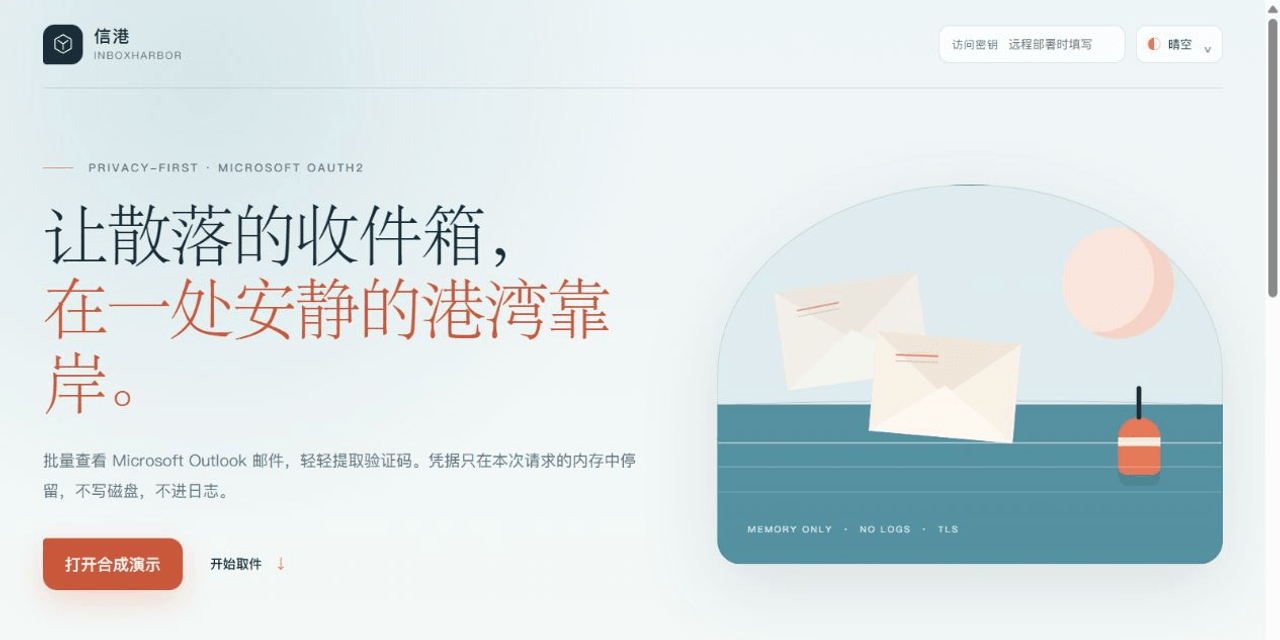
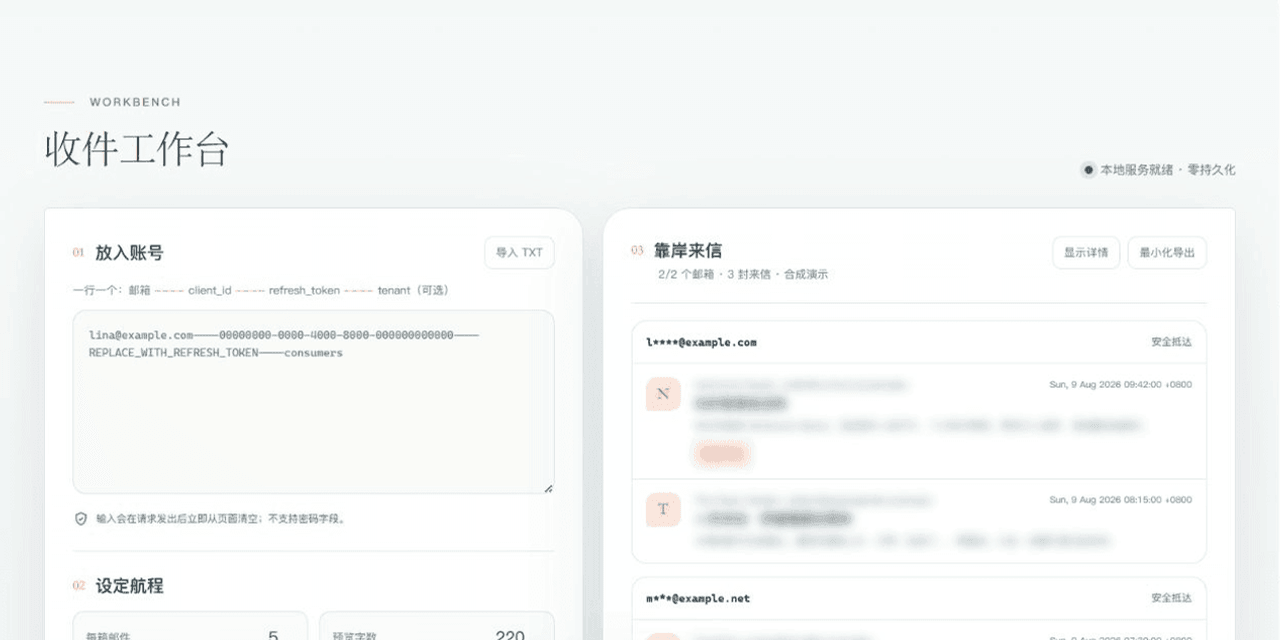
docs: lead with the populated inbox workbench

diff --git a/docs/发布审计.md b/docs/发布审计.md
@@ -3,6 +3,12 @@
 审计日期：2026-08-09
 目标：以陌生人会克隆、扫描、运行和攻击整个仓库为前提，确认公开副本不含私人原件与秘密，并达到可维护发布质量。
 
+## 2026-08-09 展示更新
+
+- 主页项目卡与 1280×640 社交封面改为已载入结果的批量收件工作台；README 同时保留完整工作台和入口设计。
+- 画面由内置合成演示生成，账号、邮件、验证码与时间均为虚构展示数据，不连接 Microsoft 或任何真实邮箱。
+- 更新后的 PNG 继续纳入尺寸、体积、元数据、OCR 与秘密扫描门禁。
+
 ## 来源与隔离
 
 - [x] 私人原件无 Git 历史；仅发现脚本、说明文档与生成缓存。

diff --git a/CHANGELOG.md b/CHANGELOG.md
@@ -1,5 +1,9 @@
 # Changelog
 
+## Unreleased
+
+- Promoted the populated synthetic inbox workbench to the profile and social preview, with the full workbench and entry composition retained as complementary README images.
+
 ## 1.0.0 - 2026-08-09
 
 - Rebuilt the original one-account CLI as a bilingual, responsive batch inbox workbench.

diff --git a/README_EN.md b/README_EN.md
@@ -26,6 +26,8 @@ InboxHarbor is a batch inbox workbench for Microsoft Outlook and Microsoft 365. 
 
 ![InboxHarbor workbench](docs/images/dashboard.png)
 
+![InboxHarbor entry and privacy-boundary design](docs/images/intro.png)
+
 ## Run locally
 
 Python 3.10 or newer is required. There are no third-party runtime dependencies.

diff --git a/README.md b/README.md
@@ -26,6 +26,8 @@
 
 ![信港工作台](docs/images/dashboard.png)
 
+![信港入口与隐私边界设计](docs/images/intro.png)
+
 ## 本地启动
 
 需要 Python 3.10 或更高版本，无运行时第三方依赖。
